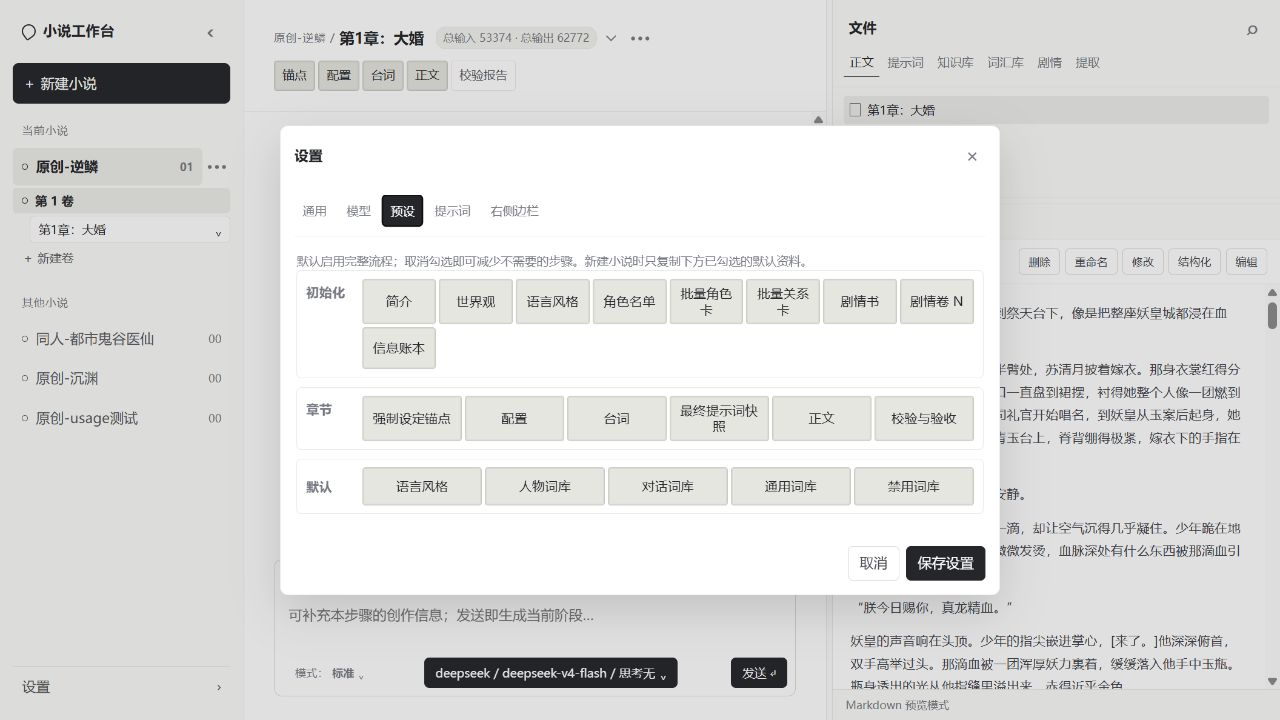
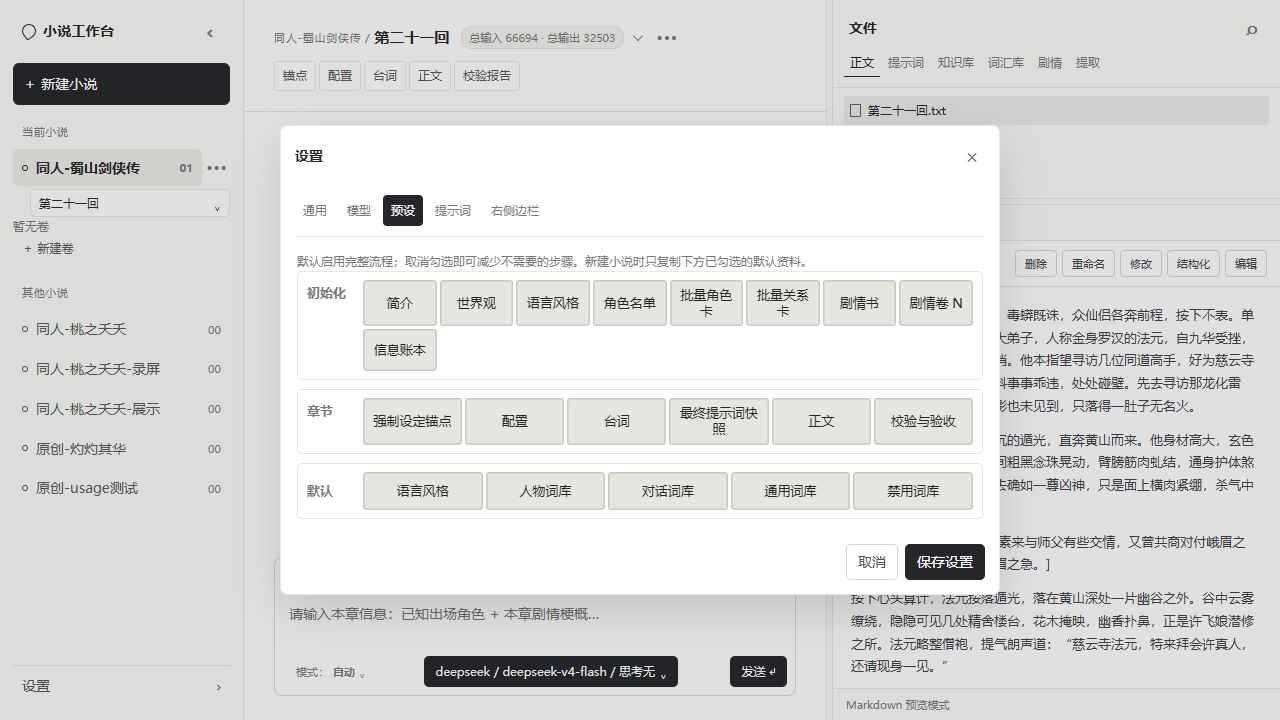
assets: 作品集实机截图全部更换为蜀山演示项目截图
- 实机截图 01-08 与 workbench-* 七张：在同人-蜀山剑侠传（第二十一回）上重拍
- 三张合成图（封面 1965x1279、章节预览、特性预览）基于新截图重制
- portfolio.html：修复 portfolio-assets 失效引用，指向本目录实际文件

diff --git a/portfolio/portfolio.html b/portfolio/portfolio.html
@@ -25,7 +25,7 @@
           </dl>
         </div>
         <figure class="workbench-shot">
-          <img src="./portfolio-assets/workbench-1920x1080.png" alt="小说工作台的项目、对话与文件三区界面" />
+          <img src="./workbench-1920x1080.png" alt="小说工作台的项目、对话与文件三区界面" />
           <figcaption>实机界面：初始化阶段中的原文统计、步骤推进与本地文件区</figcaption>
         </figure>
       </section>
@@ -58,7 +58,7 @@
               <article><b>可恢复的过程</b><p>生成失败可查看模型、token 和耗时；支持撤回、重试及本地持久化。</p></article>
             </div>
           </div>
-          <a class="image-link" href="./portfolio-assets/workbench-1920x1080.png"><img src="./portfolio-assets/workbench-1920x1080.png" alt="小说工作台 1920×1080 实机截图" /></a>
+          <a class="image-link" href="./workbench-1920x1080.png"><img src="./workbench-1920x1080.png" alt="小说工作台 1920×1080 实机截图" /></a>
         </div>
       </section>
 
